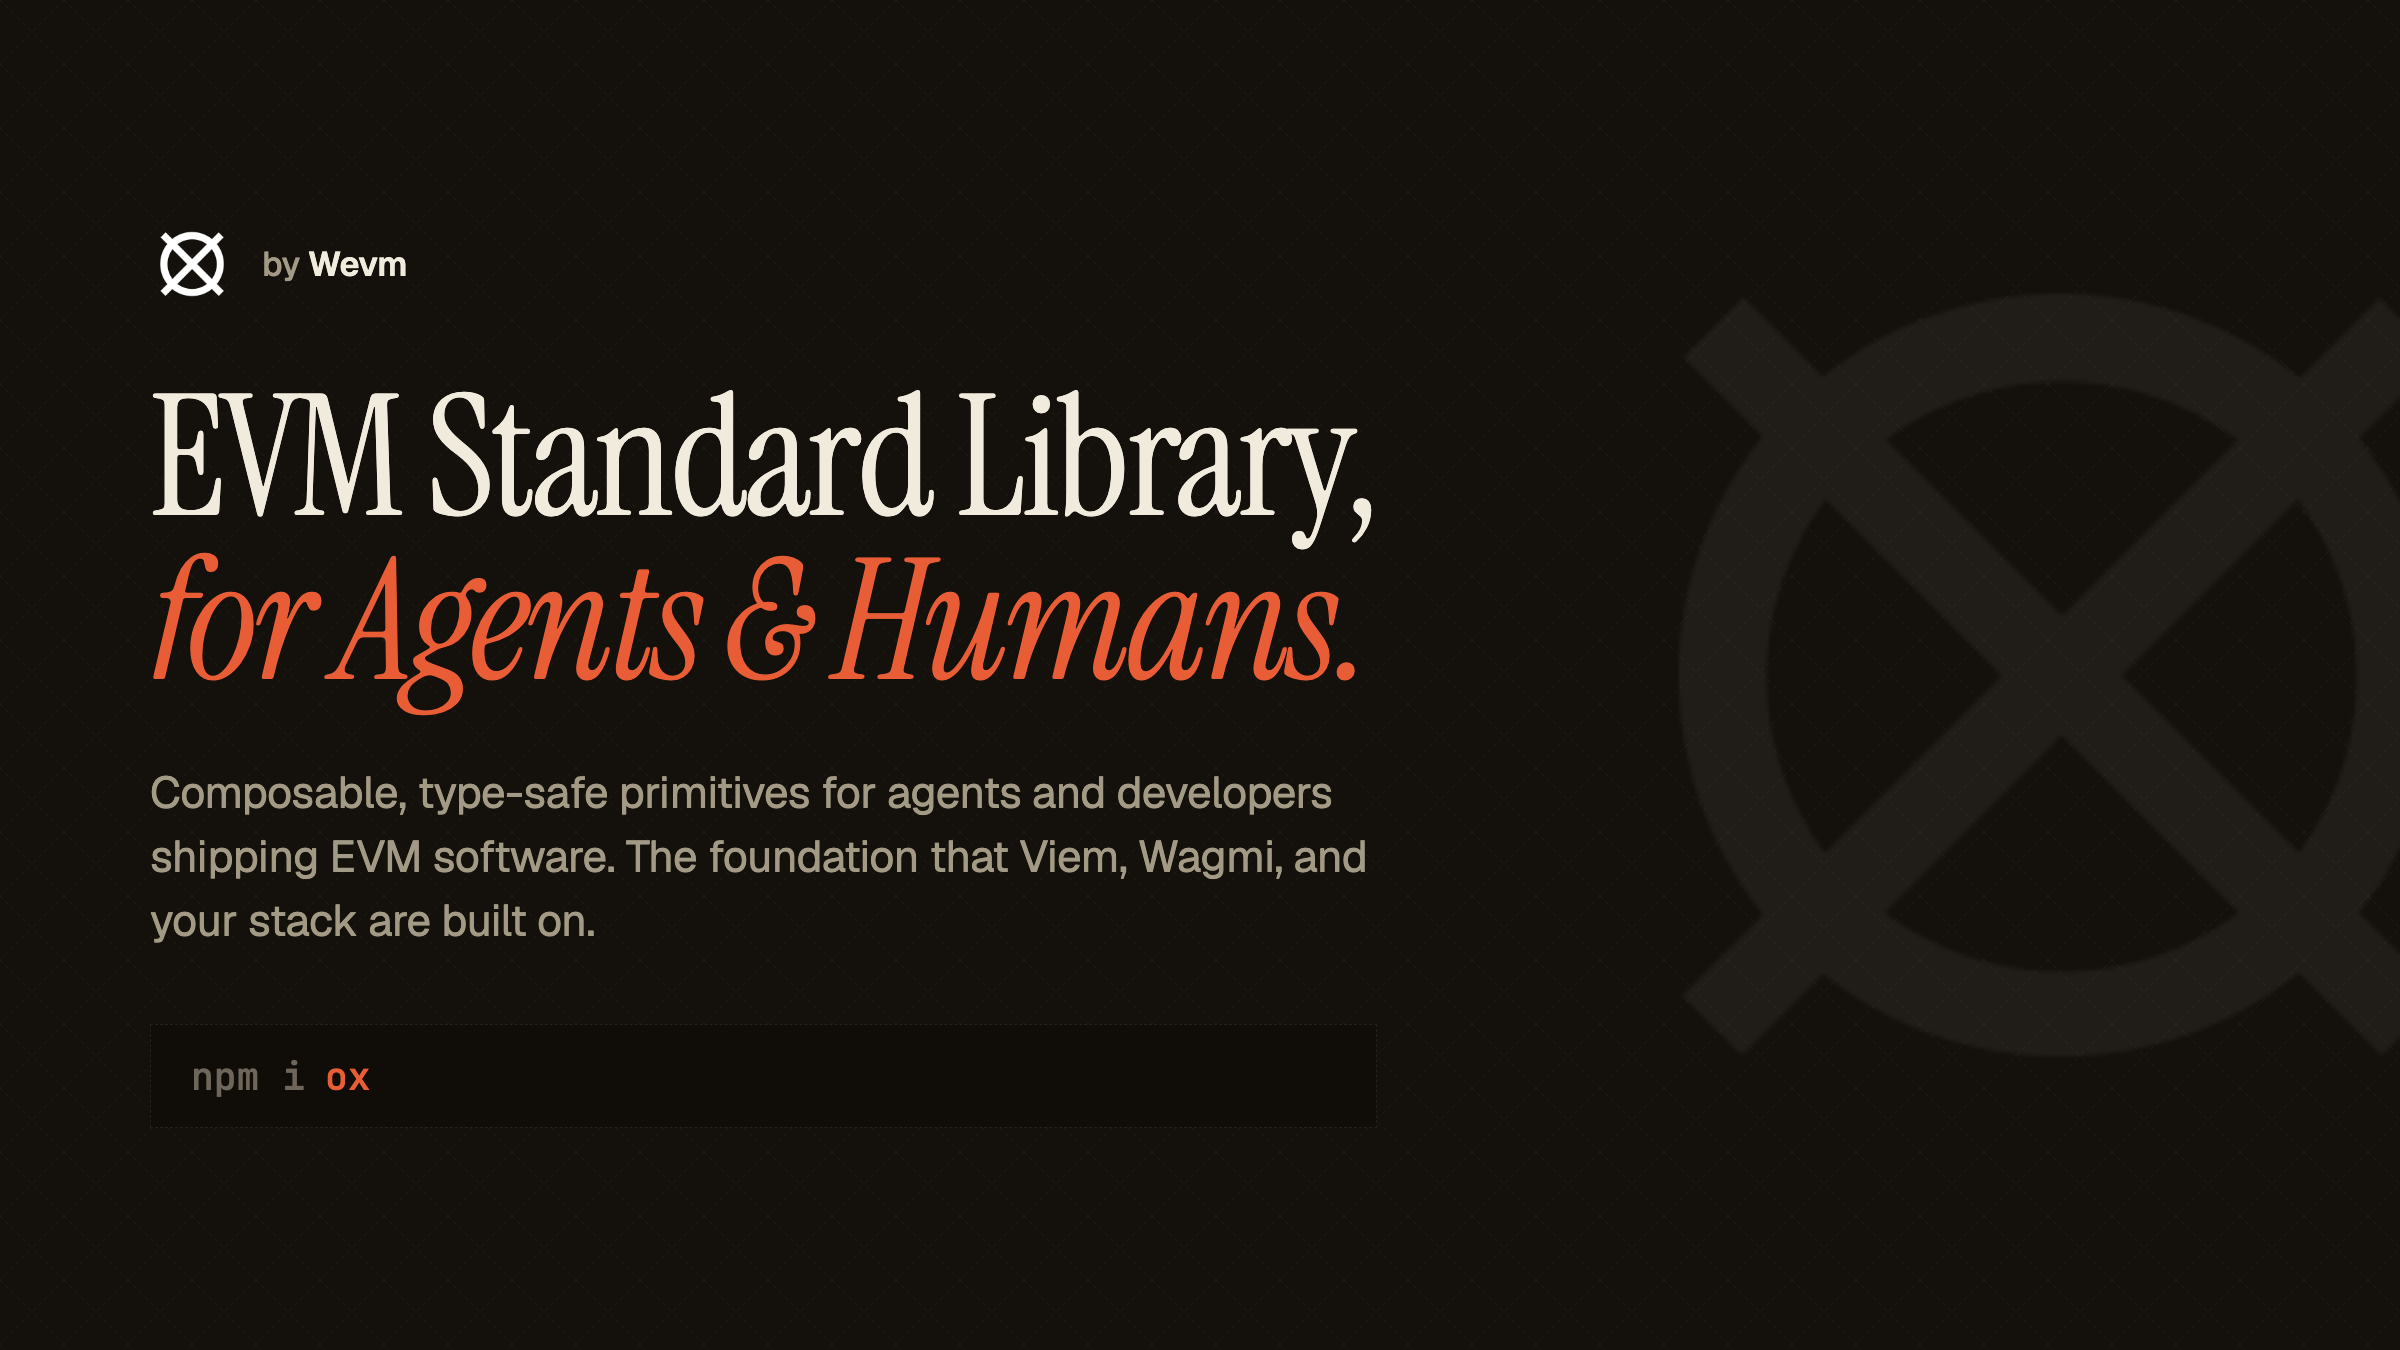
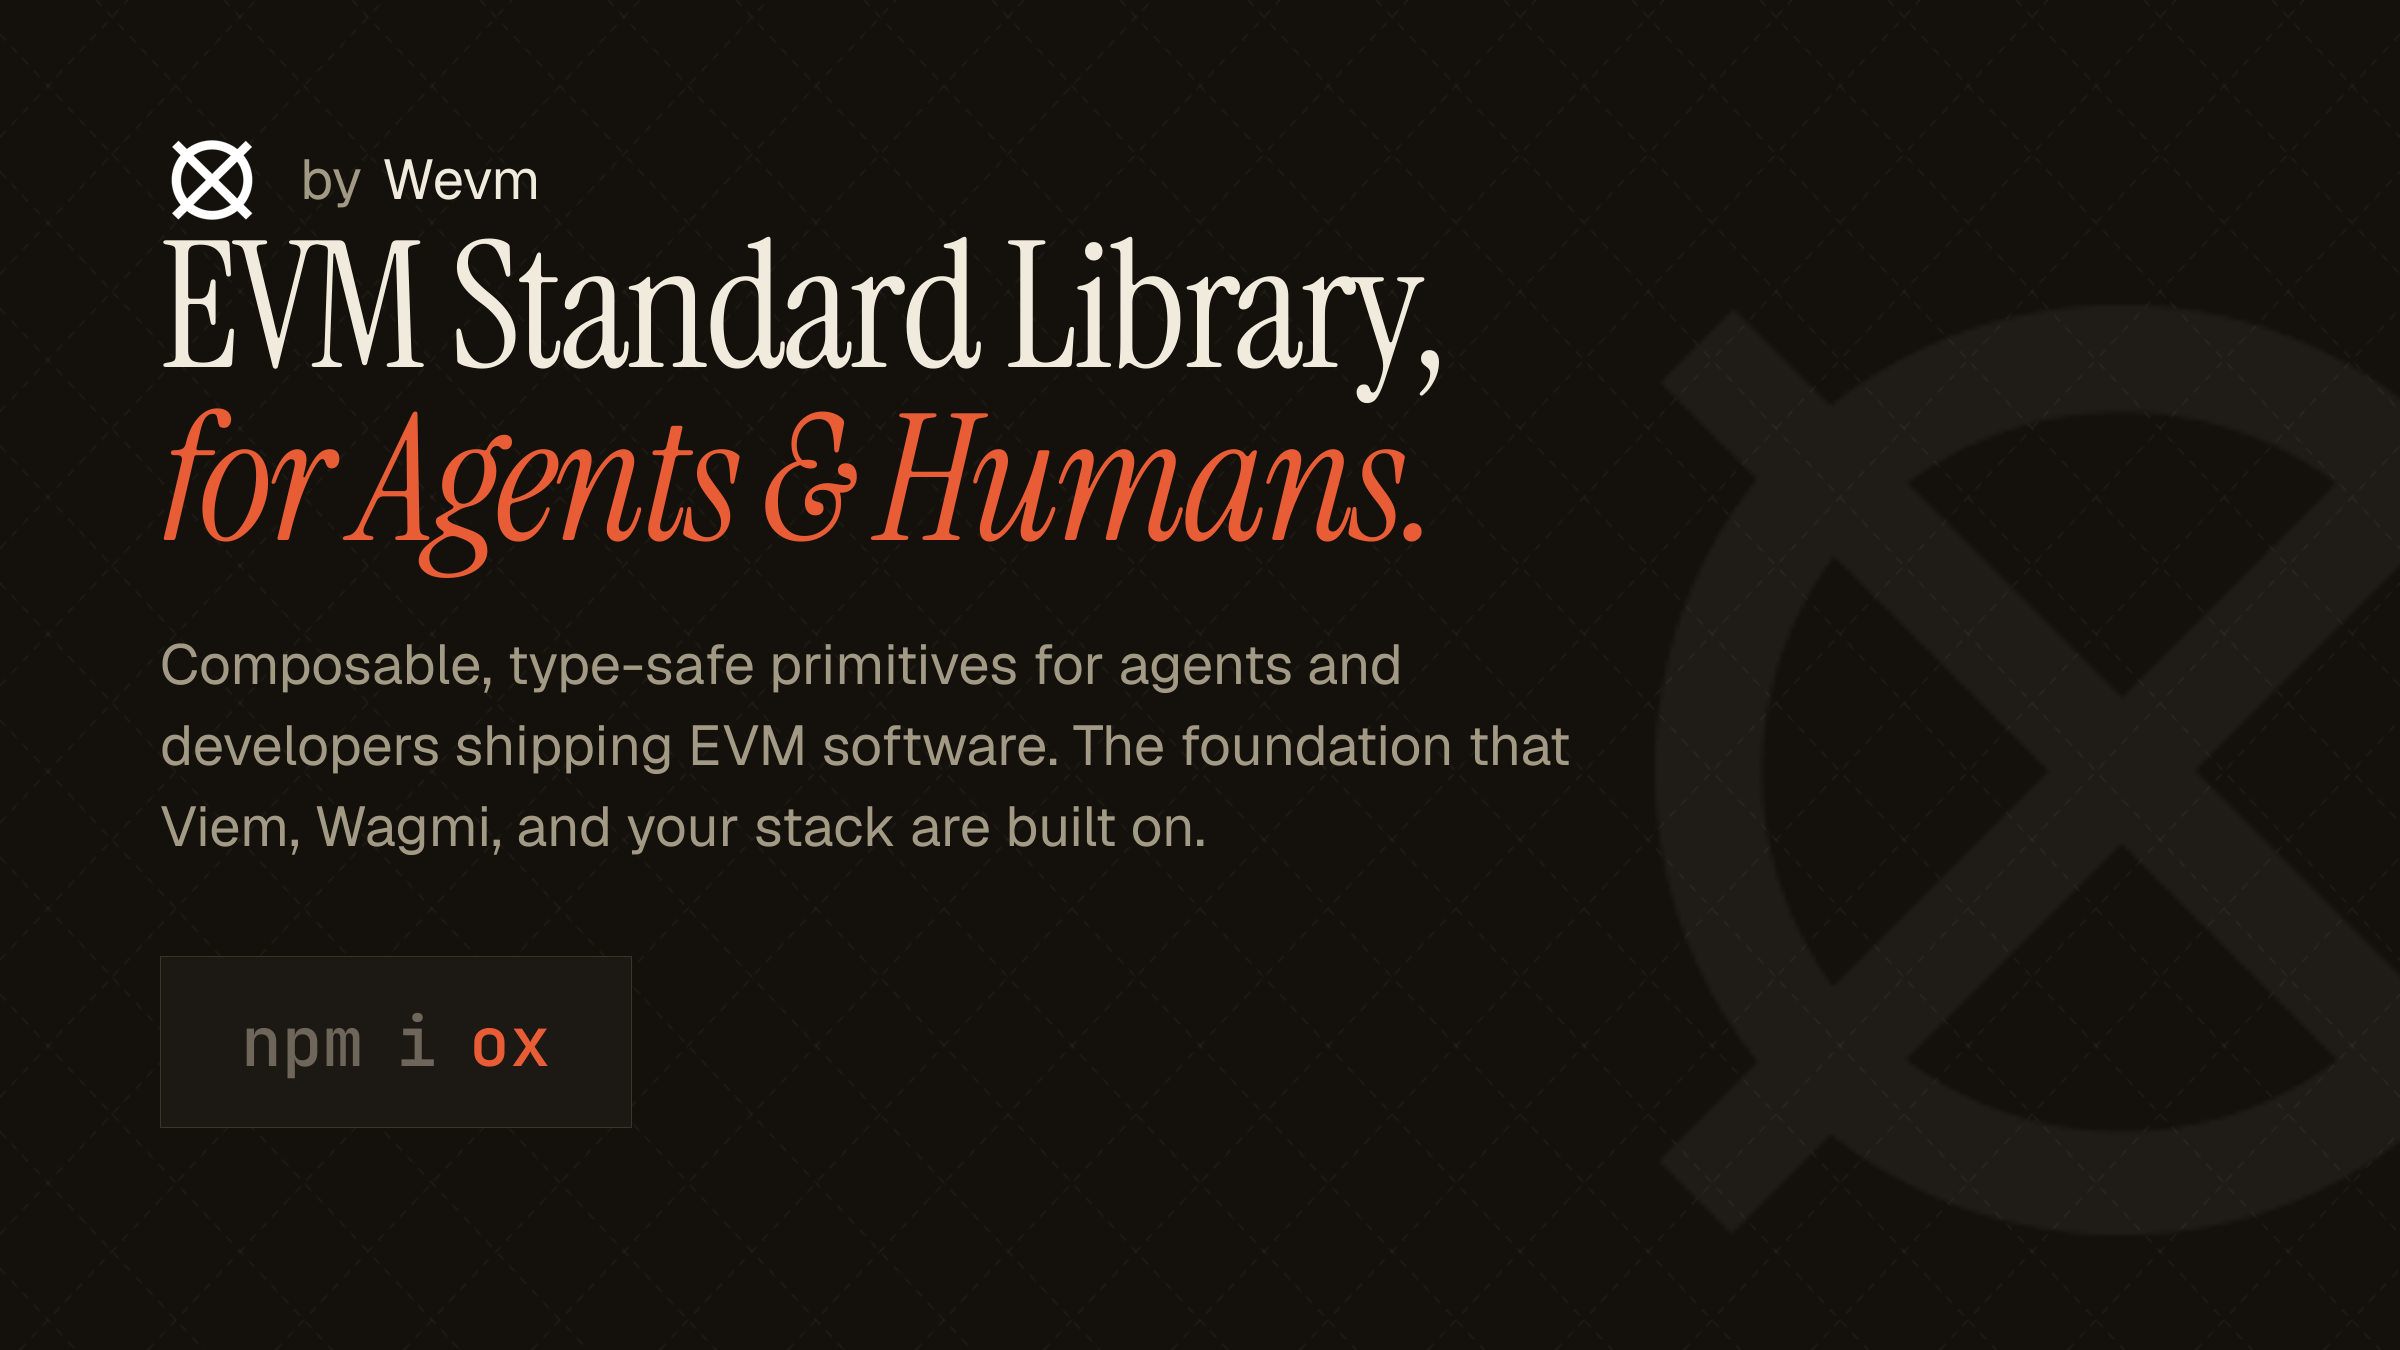
feat(site): enlarge install command and brand badge in home OG image
Recreate the static homepage OG image in code and bump the npm install
command and "by Wevm" badge sizing.

Amp-Thread-ID: https://ampcode.com/threads/T-019e9be9-2b68-7531-bde7-a79cd9cc2776

Changed region(s): [[0.0625, 0.0933, 0.6562, 0.7156], [0.0625, 0.7467, 0.2188, 0.8089]]

diff --git a/site/src/og/generate-home.tsx b/site/src/og/generate-home.tsx
@@ -1,0 +1,183 @@
+/* @jsxRuntime automatic */
+/* @jsxImportSource react */
+import { readFileSync, writeFileSync } from 'node:fs'
+import { fileURLToPath } from 'node:url'
+import { ImageResponse } from '@takumi-rs/image-response'
+
+// Logical 16:9 canvas, rendered at 2x for crisp output (matches existing asset).
+const scale = 2
+const width = 1200 * scale
+const height = 675 * scale
+const s = (n: number) => n * scale
+
+const colors = {
+  bg: '#14110c',
+  primary: '#f1ebde',
+  secondary: '#a39a85',
+  muted: '#6e665a',
+  accent: '#e85d35',
+}
+
+const dir = fileURLToPath(new URL('.', import.meta.url))
+const read = (p: string) => readFileSync(new URL(p, import.meta.url))
+
+const geist = read('./fonts/Geist-Variable.woff2')
+const instrumentSerif = read('./fonts/InstrumentSerif-Regular.woff2')
+const instrumentSerifItalic = read('./fonts/InstrumentSerif-Italic.woff2')
+const jetbrainsMono = read('./fonts/JetBrainsMono-Medium.woff2')
+
+const toPngDataUri = (buffer: Buffer) =>
+  `data:image/png;base64,${buffer.toString('base64')}`
+const patternDataUri = toPngDataUri(read('./pattern.png'))
+const logoDataUri = toPngDataUri(
+  readFileSync(`${dir}../../public/logo-dark.png`),
+)
+
+const element = (
+  <div
+    style={{
+      display: 'flex',
+      position: 'relative',
+      width: '100%',
+      height: '100%',
+      backgroundColor: colors.bg,
+      fontFamily: 'Geist',
+      overflow: 'hidden',
+    }}
+  >
+    <img
+      src={patternDataUri}
+      style={{ position: 'absolute', top: 0, left: 0, width, height }}
+    />
+
+    {/* Ghost logo watermark, bleeding off the right edge */}
+    <img
+      src={logoDataUri}
+      style={{
+        position: 'absolute',
+        top: s(80),
+        right: s(-160),
+        width: s(600),
+        height: s(610),
+        opacity: 0.05,
+      }}
+    />
+
+    {/* Brand badge */}
+    <div
+      style={{
+        display: 'flex',
+        alignItems: 'center',
+        gap: s(18),
+        position: 'absolute',
+        top: s(64),
+        left: s(80),
+      }}
+    >
+      <img src={logoDataUri} style={{ width: s(52), height: s(52) }} />
+      <div
+        style={{ display: 'flex', fontSize: s(28), color: colors.secondary }}
+      >
+        <span style={{ marginRight: s(10) }}>by</span>
+        <span style={{ color: colors.primary, fontWeight: 600 }}>Wevm</span>
+      </div>
+    </div>
+
+    {/* Content */}
+    <div
+      style={{
+        display: 'flex',
+        flexDirection: 'column',
+        justifyContent: 'center',
+        height: '100%',
+        padding: `0 ${s(80)}px`,
+      }}
+    >
+      <div
+        style={{
+          display: 'flex',
+          flexDirection: 'column',
+          fontFamily: 'Instrument Serif',
+          fontSize: s(88),
+          lineHeight: 0.98,
+          letterSpacing: '-0.02em',
+          color: colors.primary,
+        }}
+      >
+        <div style={{ display: 'flex' }}>EVM Standard Library,</div>
+        <div
+          style={{ display: 'flex', fontStyle: 'italic', color: colors.accent }}
+        >
+          for Agents &amp; Humans.
+        </div>
+      </div>
+
+      <div
+        style={{
+          display: 'flex',
+          marginTop: s(28),
+          fontSize: s(28),
+          lineHeight: 1.45,
+          color: colors.secondary,
+          maxWidth: s(740),
+        }}
+      >
+        Composable, type-safe primitives for agents and developers shipping EVM
+        software. The foundation that Viem, Wagmi, and your stack are built on.
+      </div>
+
+      {/* Install command */}
+      <div
+        style={{
+          display: 'flex',
+          alignSelf: 'flex-start',
+          alignItems: 'center',
+          marginTop: s(44),
+          padding: `${s(22)}px ${s(40)}px`,
+          backgroundColor: '#1c1813',
+          borderWidth: 1,
+          borderStyle: 'dashed',
+          borderColor: '#3a342b',
+          fontFamily: 'JetBrains Mono',
+          fontSize: s(34),
+        }}
+      >
+        <span style={{ color: colors.muted, marginRight: s(16) }}>npm</span>
+        <span style={{ color: colors.muted, marginRight: s(16) }}>i</span>
+        <span style={{ color: colors.accent }}>ox</span>
+      </div>
+    </div>
+  </div>
+)
+
+const response = new ImageResponse(element, {
+  width,
+  height,
+  format: 'png',
+  fonts: [
+    { name: 'Geist', data: geist, weight: 400, style: 'normal' },
+    { name: 'Geist', data: geist, weight: 600, style: 'normal' },
+    {
+      name: 'Instrument Serif',
+      data: instrumentSerif,
+      weight: 400,
+      style: 'normal',
+    },
+    {
+      name: 'Instrument Serif',
+      data: instrumentSerifItalic,
+      weight: 400,
+      style: 'italic',
+    },
+    {
+      name: 'JetBrains Mono',
+      data: jetbrainsMono,
+      weight: 500,
+      style: 'normal',
+    },
+  ],
+})
+
+const buffer = Buffer.from(await response.arrayBuffer())
+writeFileSync(`${dir}../../public/og-image.png`, buffer)
+console.log(`Wrote og-image.png (${width}x${height}, ${buffer.length} bytes)`)